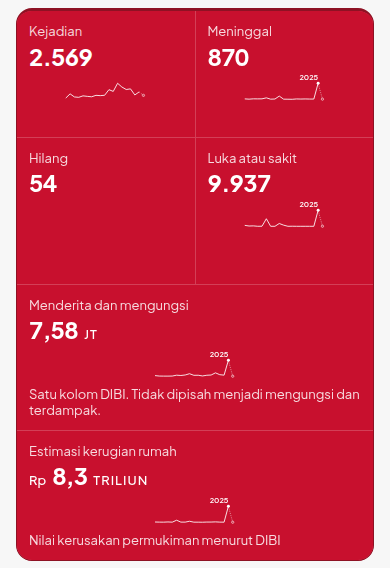
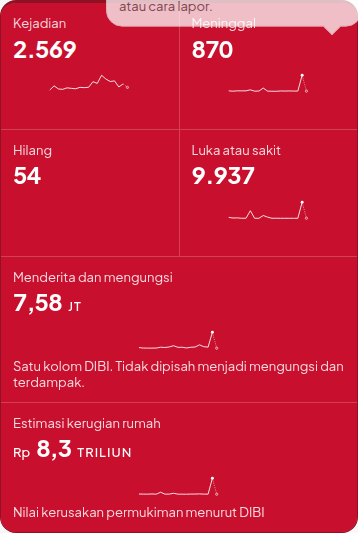
FE-70: reshoot the 390 popup and the number band after the layer-handle fix.

diff --git a/docs/pengembangan/jurnal/FE-70.md b/docs/pengembangan/jurnal/FE-70.md
@@ -23,7 +23,7 @@ Sapaan yang harus kelihatan adalah kalimat darurat di awal briefing peringatan, 
 | `GuidePanel.tsx` | `scrollIntoView({ block: "start" })` pada pesan terbaru. Kicker `--text-dim`. |
 | `GuideBot.tsx` | `setOpen(false)` sebelum `router.push("/peta")`. Gelembung undangan tampil di 390 di atas foto, tidak menimpa panel grafik. |
 | `MapFeatureCard.tsx` | Tanggal dan × di baris sendiri. Judul selebar kartu. Gulir di badan kartu, bukan kulitnya, supaya lubang kanvas `#d4dce4` tidak muncul. `fitCardToViewport` menyisakan tinggi atribusi + 8px di layar sempit. |
-| `globals.css` | Kulit kartu `overflow: hidden`. Di bawah 768px, `.map-stage` naik ke z-index 40 saat popup terbuka. Atribusi tetap. |
+| `globals.css` | Kulit kartu `overflow: hidden`. Tahap peta tidak dinaikkan. Atribusi tetap di atas popup. |
 | `MapWorkspace.tsx` / `MapViewport.tsx` | Sembunyikan legenda dan tombol pengaturan di bawah `md` saat popup terbuka. Tutup popup mengembalikan fokus ke `.maplibregl-canvas`. |
 | `SiteNav.tsx` | Laci layar penuh dengan bilah "SIK Aceh" dan tombol × 44px (`Tutup menu`). Escape, tombol kembali, dan perangkap fokus. Fokus kembali ke tombol ☰. |
 | `HeroPhotoBackdrop.tsx` | Caption `lg:whitespace-nowrap`. |
@@ -36,7 +36,7 @@ Sapaan yang harus kelihatan adalah kalimat darurat di awal briefing peringatan, 
 ## Bukti
 
 ```
-npm test → 936 pass, 0 fail
+npm test → 937 pass, 0 fail
 npm run lint → exit 0 (peringatan img yang sudah ada)
 npm run build → exit 0
 
@@ -48,11 +48,11 @@ Gelembung 390 terbuka (display block, y 96–179). Panel grafik y 461–798. Tid
 
 Popup ACEH-2023-0372. Judul lebar 310px pada kartu 336px.
 1440 atas: scrollTop 0. 1440 Sumber: scrollTop 547, Sumber y 790–871, header y 533–652. Atribusi bisa diklik.
-390: legenda none, pembungkus pengaturan display none saat popup, flex lagi setelah tutup. Kartu berakhir y 724, atribusi kompak y 742–766 dan bisa diklik. Sumber tergulir y 630–711. Fokus setelah tutup: maplibregl-canvas. Tahap peta z-index 40.
+390: legenda none, pembungkus pengaturan display none saat popup. Kartu berakhir y 724. Atribusi y 732–776 dan bisa diklik. Panel layer y 783, klik membuka panel (tinggi 439px). Sumber tergulir y 630–711. Kanvas `tabindex` tetap 0. Tahap peta z-index auto.
 Laci 390: "SIK Aceh" dan tombol "Tutup menu" 44×44, laci tinggi 844.
 Tautan: www.kanalaceh.com, bpba.acehprov.go.id. Teks polos: Data Kejadian BPBA.
 
-Pita #dibi di 390: tinggi 553px. Garis header: 1px rgb(142, 18, 36). RisikoLadder: Pidie Jaya, Aceh Selatan, Aceh Besar, Aceh Singkil, Aceh Utara, Simeulue, Aceh Barat Daya, Pidie. Teaser: 23 path, sumber public/fixtures/boundaries-aceh-kab.geojson. Caption 1440: white-space nowrap, satu baris.
+Pita #dibi di 390: tinggi 533px. Garis header: 1px rgb(142, 18, 36). RisikoLadder: Pidie Jaya, Aceh Selatan, Aceh Besar, Aceh Singkil, Aceh Utara, Simeulue, Aceh Barat Daya, Pidie. Teaser: 23 path, sumber public/fixtures/boundaries-aceh-kab.geojson. Caption 1440: white-space nowrap, satu baris.
 ```
 
 ## Bacaan ulang bukti versus kriteria
